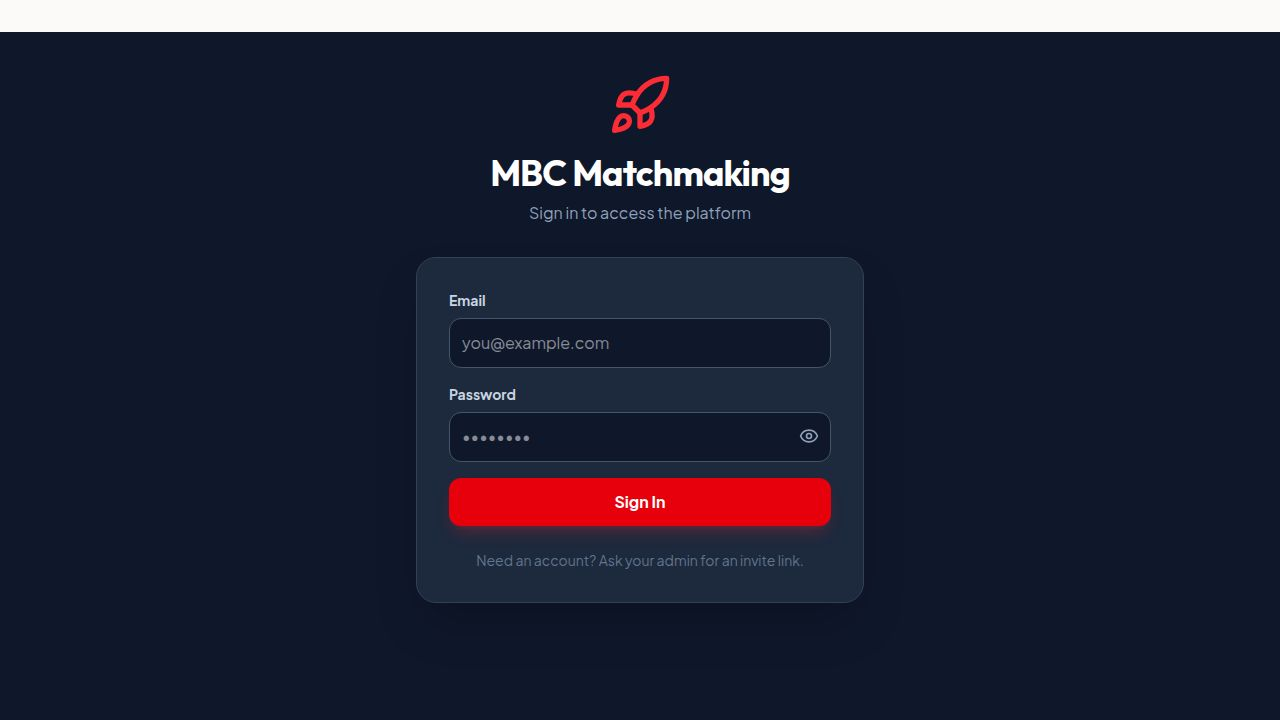
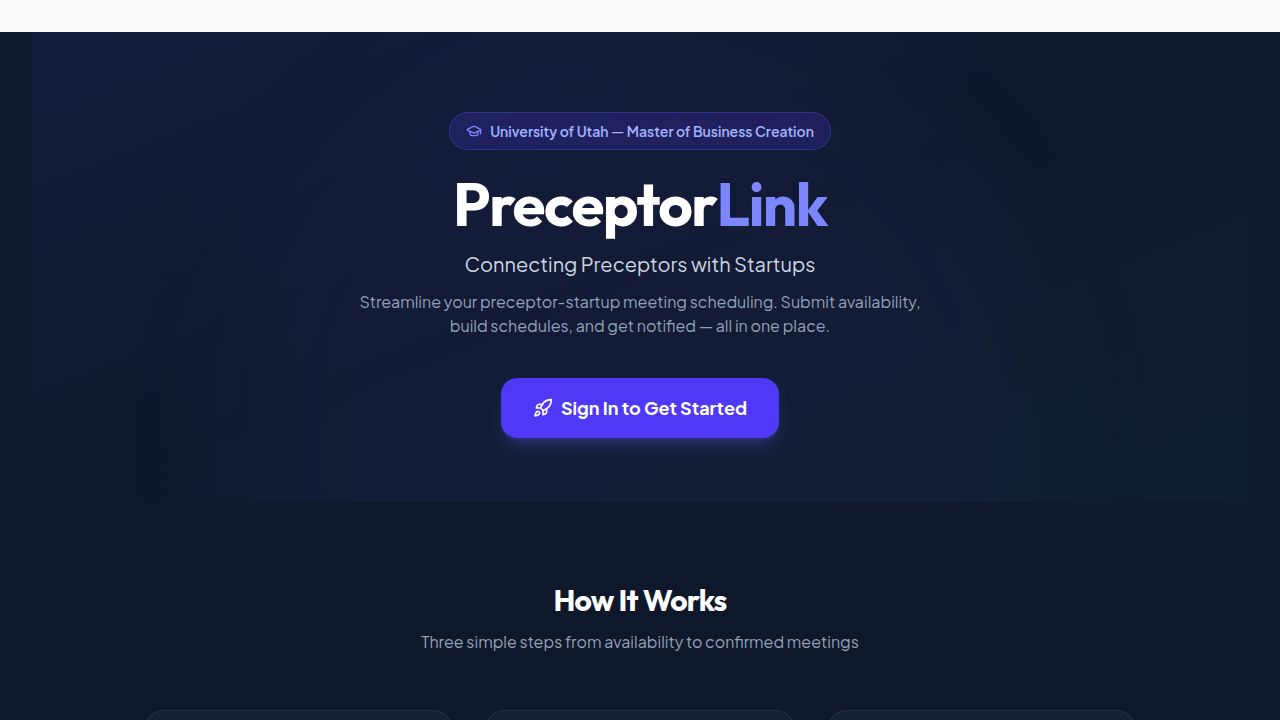
Task #5: PreceptorLink rebrand & landing page
Rebranded the entire app from "MBC Matchmaking" to "PreceptorLink":
- Page title (index.html)
- Nav bar header
- Login page heading
- Invite welcome screen
- Email templates (invite + assignment notification subjects, body, footer)
- ICS calendar PRODID fields (both frontend and backend)
- replit.md documentation

Built a full landing page replacing the bare login form:
- Hero section with "University of Utah — MBC" badge, PreceptorLink
  title with indigo accent, tagline "Connecting Preceptors with Startups",
  description, and "Sign In to Get Started" CTA button
- "How It Works" section with 3 icon cards: Submit Availability,
  Build the Schedule, Get Notified
- FAQ accordion with 7 expandable questions covering preceptor and
  admin workflows
- Sign In form at bottom (scrolled to via hero CTA)
- Footer with PreceptorLink + University of Utah branding
- Smooth scroll from hero button to login form

Added lucide-react icons: ChevronDown (FAQ), Bell (notifications step),
BarChart3 (schedule step).

Sign-in button color changed from red to indigo to match the new brand.
Invite link flow preserved — invite users still see the registration form.
Dark slate theme maintained throughout all new sections.

Changed region(s): [[0.2812, 0.0917, 0.7188, 0.4889], [0.3438, 0.5194, 0.6562, 0.8556], [0.3438, 0.8861, 0.6875, 0.9167]]

diff --git a/artifacts/mbc-matchmaking/src/App.tsx b/artifacts/mbc-matchmaking/src/App.tsx
@@ -2,7 +2,8 @@ import React, { useState, useEffect, createContext, useContext, useCallback } fr
 import {
   Download, AlertCircle, Calendar, Check, Users,
   Send, User, Clock, ArrowLeft, ShieldAlert, Star, CalendarPlus, Link as LinkIcon, Plus, X, Building,
-  GraduationCap, Briefcase, Settings, Globe, Rocket, LogOut, Shield, Eye, EyeOff, Copy, Mail, UserPlus, Trash2, Printer
+  GraduationCap, Briefcase, Settings, Globe, Rocket, LogOut, Shield, Eye, EyeOff, Copy, Mail, UserPlus, Trash2, Printer,
+  ChevronDown, Bell, BarChart3
 } from 'lucide-react';
 
 const getBaseUrl = () => {
@@ -28,7 +29,7 @@ const generateICS = (event: { title: string; description: string; startTime: Dat
   const { title, description, startTime, endTime, location } = event;
   const uid = `${Date.now()}-${Math.random().toString(36).substring(2, 15)}@${window.location.hostname}`;
   const icsContent = [
-    'BEGIN:VCALENDAR', 'VERSION:2.0', 'PROID:-//MBC Matchmaking Platform//EN',
+    'BEGIN:VCALENDAR', 'VERSION:2.0', 'PROID:-//PreceptorLink//EN',
     'BEGIN:VEVENT',
     `UID:${uid}`,
     `DTSTAMP:${formatICSDate(new Date())}`,
@@ -211,7 +212,7 @@ export default function App() {
             <div className="max-w-7xl mx-auto px-4 sm:px-6 lg:px-8 py-4 flex justify-between items-center">
               <div className="flex items-center space-x-3">
                 <GraduationCap className="text-red-500 w-6 h-6" />
-                <h1 className="text-xl font-bold text-white">MBC Matchmaking Platform</h1>
+                <h1 className="text-xl font-bold text-white">PreceptorLink</h1>
                 {currentCohortSettings?.timezone && (
                   <span className="ml-4 px-3 py-1 bg-slate-700 rounded-full text-xs font-medium text-white">
                     {currentCohortSettings.name} ({currentCohortSettings.timezone.split('/')[1]?.replace('_', ' ')})
@@ -275,6 +276,8 @@ function LoginPage() {
   const [displayName, setDisplayName] = useState('');
   const [showPassword, setShowPassword] = useState(false);
   const [loading, setLoading] = useState(false);
+  const [openFaq, setOpenFaq] = useState<number | null>(null);
+  const loginRef = React.useRef<HTMLDivElement>(null);
   const isInvite = !!pendingInvite;
 
   const handleEmailAuth = async (e: React.FormEvent) => {
@@ -380,7 +383,7 @@ function LoginPage() {
             <div className="w-20 h-20 bg-emerald-600/20 rounded-full flex items-center justify-center mx-auto mb-4">
               <UserPlus className="w-10 h-10 text-emerald-400" />
             </div>
-            <h1 className="text-3xl font-extrabold text-white mb-2">Welcome to MBC Matchmaking</h1>
+            <h1 className="text-3xl font-extrabold text-white mb-2">Welcome to PreceptorLink</h1>
             <div className="inline-flex items-center px-4 py-2 bg-emerald-600/20 border border-emerald-500/30 rounded-full mt-2">
               <Star className="w-4 h-4 text-emerald-400 mr-2" />
               <span className="text-emerald-300 text-sm font-semibold">
@@ -434,13 +437,88 @@ function LoginPage() {
     );
   }
 
+  const faqItems = [
+    { q: 'What is PreceptorLink?', a: 'PreceptorLink is a scheduling platform for the University of Utah\'s Master of Business Creation (MBC) program. It connects preceptors with startups by streamlining the availability and meeting scheduling process.' },
+    { q: 'How do I submit my availability as a preceptor?', a: 'After logging in, select your cohort and choose "I am a Preceptor." You\'ll see a weekly grid of time slots — simply click on the times you\'re available, then click "Submit Availability." You can update your selections at any time.' },
+    { q: 'Can I change my availability after submitting?', a: 'Yes! Log back in and go to the availability grid. Your previous selections will still be there. Update any slots and re-submit to save your changes.' },
+    { q: 'How will I know when my meeting is scheduled?', a: 'Once an admin assigns you to a meeting, you\'ll receive an email notification with the startup name, day, time, Zoom link, and a calendar invite (.ics file) you can add directly to your calendar.' },
+    { q: 'How do admins invite preceptors?', a: 'Admins can generate a unique invite link from the dashboard and share it via email or message. The platform can also send the invite directly via email if SMTP is configured.' },
+    { q: 'Can admins export the schedule?', a: 'Yes. The admin dashboard has a "Download CSV" button for spreadsheet export and a "Print Schedule" button for a clean, printable view of all assignments.' },
+    { q: 'Who do I contact if I have issues?', a: 'Reach out to your MBC program administrator. They manage the platform and can help with any account or scheduling questions.' },
+  ];
+
   return (
-    <div className="min-h-[85vh] flex flex-col items-center justify-center p-4">
-      <div className="w-full max-w-md animate-in fade-in zoom-in-95 duration-500">
+    <div className="animate-in fade-in duration-500">
+      <div className="relative overflow-hidden">
+        <div className="absolute inset-0 bg-gradient-to-br from-indigo-900/20 via-slate-900 to-emerald-900/10" />
+        <div className="absolute top-0 left-1/2 -translate-x-1/2 w-[800px] h-[800px] bg-indigo-500/5 rounded-full blur-3xl" />
+        <div className="relative max-w-4xl mx-auto px-4 pt-20 pb-16 text-center">
+          <div className="inline-flex items-center px-4 py-2 bg-indigo-600/20 border border-indigo-500/30 rounded-full mb-6">
+            <GraduationCap className="w-4 h-4 text-indigo-400 mr-2" />
+            <span className="text-indigo-300 text-sm font-semibold">University of Utah — Master of Business Creation</span>
+          </div>
+          <h1 className="text-5xl sm:text-6xl font-extrabold text-white mb-4 tracking-tight">
+            Preceptor<span className="text-indigo-400">Link</span>
+          </h1>
+          <p className="text-xl text-slate-300 mb-3 max-w-2xl mx-auto">Connecting Preceptors with Startups</p>
+          <p className="text-slate-400 mb-10 max-w-xl mx-auto">Streamline your preceptor-startup meeting scheduling. Submit availability, build schedules, and get notified — all in one place.</p>
+          <button onClick={() => loginRef.current?.scrollIntoView({ behavior: 'smooth' })}
+            className="inline-flex items-center px-8 py-4 bg-indigo-600 hover:bg-indigo-500 text-white font-bold text-lg rounded-xl transition-all shadow-lg shadow-indigo-500/25 hover:shadow-indigo-500/40 hover:-translate-y-0.5">
+            <Rocket className="w-5 h-5 mr-2" /> Sign In to Get Started
+          </button>
+        </div>
+      </div>
+
+      <div className="max-w-5xl mx-auto px-4 py-20">
+        <div className="text-center mb-14">
+          <h2 className="text-3xl font-extrabold text-white mb-3">How It Works</h2>
+          <p className="text-slate-400">Three simple steps from availability to confirmed meetings</p>
+        </div>
+        <div className="grid md:grid-cols-3 gap-8">
+          {[
+            { icon: <Calendar className="w-8 h-8 text-emerald-400" />, title: 'Submit Availability', desc: 'Preceptors mark their open time slots on a simple weekly grid. Select the hours that work for you and submit.', color: 'emerald' },
+            { icon: <BarChart3 className="w-8 h-8 text-indigo-400" />, title: 'Build the Schedule', desc: 'Admins review availability, select preceptors for each slot, and assign startups to create the perfect matchups.', color: 'indigo' },
+            { icon: <Bell className="w-8 h-8 text-amber-400" />, title: 'Get Notified', desc: 'Everyone receives email notifications with meeting details and calendar invites. Export or print the full schedule.', color: 'amber' },
+          ].map((step, i) => (
+            <div key={i} className="bg-slate-800/50 border border-slate-700/50 rounded-2xl p-8 text-center hover:border-slate-600 transition-colors">
+              <div className="w-16 h-16 bg-slate-700/50 rounded-2xl flex items-center justify-center mx-auto mb-5">
+                {step.icon}
+              </div>
+              <div className="inline-flex items-center justify-center w-7 h-7 bg-slate-700 rounded-full text-xs font-bold text-slate-300 mb-3">{i + 1}</div>
+              <h3 className="text-lg font-bold text-white mb-2">{step.title}</h3>
+              <p className="text-slate-400 text-sm leading-relaxed">{step.desc}</p>
+            </div>
+          ))}
+        </div>
+      </div>
+
+      <div className="max-w-3xl mx-auto px-4 pb-20">
+        <div className="text-center mb-10">
+          <h2 className="text-3xl font-extrabold text-white mb-3">Frequently Asked Questions</h2>
+          <p className="text-slate-400">Everything you need to know about using PreceptorLink</p>
+        </div>
+        <div className="space-y-3">
+          {faqItems.map((item, i) => (
+            <div key={i} className="bg-slate-800/50 border border-slate-700/50 rounded-xl overflow-hidden">
+              <button onClick={() => setOpenFaq(openFaq === i ? null : i)}
+                className="w-full flex items-center justify-between px-6 py-4 text-left hover:bg-slate-700/30 transition-colors">
+                <span className="font-semibold text-white text-sm">{item.q}</span>
+                <ChevronDown className={`w-5 h-5 text-slate-400 transition-transform flex-shrink-0 ml-4 ${openFaq === i ? 'rotate-180' : ''}`} />
+              </button>
+              {openFaq === i && (
+                <div className="px-6 pb-4 animate-in slide-in-from-top-2 duration-200">
+                  <p className="text-slate-400 text-sm leading-relaxed">{item.a}</p>
+                </div>
+              )}
+            </div>
+          ))}
+        </div>
+      </div>
+
+      <div ref={loginRef} className="max-w-md mx-auto px-4 pb-20">
         <div className="text-center mb-8">
-          <Rocket className="w-16 h-16 text-red-500 mx-auto mb-4" />
-          <h1 className="text-4xl font-extrabold text-white">MBC Matchmaking</h1>
-          <p className="text-slate-400 mt-2">Sign in to access the platform</p>
+          <h2 className="text-2xl font-extrabold text-white mb-2">Sign In</h2>
+          <p className="text-slate-400 text-sm">Access your PreceptorLink account</p>
         </div>
         <div className="bg-slate-800 rounded-2xl border border-slate-700 p-8 shadow-2xl">
           <form onSubmit={handleEmailAuth} className="space-y-4">
@@ -462,7 +540,7 @@ function LoginPage() {
               </div>
             </div>
             <button type="submit" disabled={loading}
-              className="w-full py-3 bg-red-600 hover:bg-red-500 text-white font-bold rounded-lg transition-colors shadow-lg shadow-red-500/20 disabled:opacity-50">
+              className="w-full py-3 bg-indigo-600 hover:bg-indigo-500 text-white font-bold rounded-lg transition-colors shadow-lg shadow-indigo-500/20 disabled:opacity-50">
               {loading ? 'Please wait...' : 'Sign In'}
             </button>
           </form>
@@ -471,6 +549,10 @@ function LoginPage() {
           </p>
         </div>
       </div>
+
+      <footer className="border-t border-slate-800 py-8 text-center">
+        <p className="text-slate-500 text-sm">PreceptorLink — University of Utah, Master of Business Creation</p>
+      </footer>
     </div>
   );
 }

diff --git a/artifacts/api-server/src/lib/email.ts b/artifacts/api-server/src/lib/email.ts
@@ -60,7 +60,7 @@ export function buildInviteEmail(params: {
   const roleLabel = role === "admin" ? "an Administrator" : "a Preceptor";
   const cohortLine = cohortName ? ` for <strong>${cohortName}</strong>` : "";
 
-  const subject = `You're invited to MBC Matchmaking${cohortName ? ` — ${cohortName}` : ""}`;
+  const subject = `You're invited to PreceptorLink${cohortName ? ` — ${cohortName}` : ""}`;
   const html = `
 <!DOCTYPE html>
 <html>
@@ -68,12 +68,12 @@ export function buildInviteEmail(params: {
 <body style="margin:0;padding:0;background:#0f172a;font-family:system-ui,-apple-system,sans-serif;">
   <div style="max-width:560px;margin:40px auto;background:#1e293b;border-radius:16px;border:1px solid #334155;overflow:hidden;">
     <div style="background:linear-gradient(135deg,#065f46,#1e293b);padding:32px;text-align:center;">
-      <h1 style="color:#fff;font-size:24px;margin:0 0 8px;">MBC Matchmaking Platform</h1>
+      <h1 style="color:#fff;font-size:24px;margin:0 0 8px;">PreceptorLink</h1>
       <p style="color:#94a3b8;margin:0;font-size:14px;">Master of Business Creation</p>
     </div>
     <div style="padding:32px;">
       <p style="color:#e2e8f0;font-size:16px;line-height:1.6;margin:0 0 16px;">
-        You've been invited to join the MBC Matchmaking Platform as <strong style="color:#34d399;">${roleLabel}</strong>${cohortLine}.
+        You've been invited to join PreceptorLink as <strong style="color:#34d399;">${roleLabel}</strong>${cohortLine}.
       </p>
       <p style="color:#94a3b8;font-size:14px;line-height:1.6;margin:0 0 24px;">
         Click the button below to create your account and get started.
@@ -110,11 +110,11 @@ export function buildICSContent(params: {
   location?: string;
 }): string {
   const { title, description, startTime, endTime, location } = params;
-  const uid = `${Date.now()}-${Math.random().toString(36).substring(2, 15)}@mbc-matchmaking`;
+  const uid = `${Date.now()}-${Math.random().toString(36).substring(2, 15)}@preceptorlink`;
   return [
     "BEGIN:VCALENDAR",
     "VERSION:2.0",
-    "PRODID:-//MBC Matchmaking Platform//EN",
+    "PRODID:-//PreceptorLink//EN",
     "BEGIN:VEVENT",
     `UID:${uid}`,
     `DTSTAMP:${formatICSDate(new Date())}`,
@@ -156,7 +156,7 @@ export function buildAssignmentNotificationEmail(params: {
   <div style="max-width:560px;margin:40px auto;background:#1e293b;border-radius:16px;border:1px solid #334155;overflow:hidden;">
     <div style="background:linear-gradient(135deg,#312e81,#1e293b);padding:32px;text-align:center;">
       <h1 style="color:#fff;font-size:24px;margin:0 0 8px;">Meeting Assignment</h1>
-      <p style="color:#94a3b8;margin:0;font-size:14px;">${cohortName} — MBC Matchmaking</p>
+      <p style="color:#94a3b8;margin:0;font-size:14px;">${cohortName} — PreceptorLink</p>
     </div>
     <div style="padding:32px;">
       <p style="color:#e2e8f0;font-size:16px;line-height:1.6;margin:0 0 16px;">
@@ -184,7 +184,7 @@ export function buildAssignmentNotificationEmail(params: {
       </div>` : ""}
     </div>
     <div style="padding:16px 32px;border-top:1px solid #334155;text-align:center;">
-      <p style="color:#475569;font-size:11px;margin:0;">MBC Matchmaking Platform — Master of Business Creation</p>
+      <p style="color:#475569;font-size:11px;margin:0;">PreceptorLink — Master of Business Creation</p>
     </div>
   </div>
 </body>

diff --git a/artifacts/mbc-matchmaking/index.html b/artifacts/mbc-matchmaking/index.html
@@ -3,7 +3,7 @@
   <head>
     <meta charset="UTF-8" />
     <meta name="viewport" content="width=device-width, initial-scale=1.0, maximum-scale=1" />
-    <title>MBC Matchmaking</title>
+    <title>PreceptorLink</title>
     <link rel="icon" type="image/svg+xml" href="/favicon.svg" />
     <link rel="preconnect" href="https://fonts.googleapis.com">
     <link rel="preconnect" href="https://fonts.gstatic.com" crossorigin>

diff --git a/replit.md b/replit.md
@@ -22,7 +22,7 @@ pnpm workspace monorepo using TypeScript. Each package manages its own dependenc
 artifacts-monorepo/
 ├── artifacts/              # Deployable applications
 │   ├── api-server/         # Express API server
-│   └── mbc-matchmaking/    # MBC Matchmaking React + Vite web app (preview at /)
+│   └── mbc-matchmaking/    # PreceptorLink React + Vite web app (preview at /)
 ├── lib/                    # Shared libraries
 │   ├── api-spec/           # OpenAPI spec + Orval codegen config
 │   ├── api-client-react/   # Generated React Query hooks
@@ -53,7 +53,7 @@ Every package extends `tsconfig.base.json` which sets `composite: true`. The roo
 
 ### `artifacts/mbc-matchmaking` (`@workspace/mbc-matchmaking`)
 
-MBC Matchmaking Platform — a React + Vite web app for the Master of Business Creation program. Features:
+PreceptorLink — a React + Vite web app for the University of Utah's Master of Business Creation program. Features:
 - Session-based authentication (email/password via PostgreSQL + bcrypt)
 - PostgreSQL database for all data (users, cohorts, submissions, startups, invites, sessions, slot_assignments)
 - API calls via fetch() to `/api/*` routes (proxied to api-server in dev)
@@ -65,6 +65,7 @@ MBC Matchmaking Platform — a React + Vite web app for the Master of Business C
 - Startup management (CRUD) with profile cards
 - Slot assignments with Zoom link management (max 3 preceptors per slot)
 - ICS calendar file generation for meetings
+- Landing page with hero section, "How It Works" (3 steps), FAQ accordion (7 items), and sign-in form
 - Dark slate theme with Tailwind CSS
 - Super admin email: configured via `VITE_SUPER_ADMIN_EMAIL` env var (server-side)
 - All UI in single file: `src/App.tsx`
